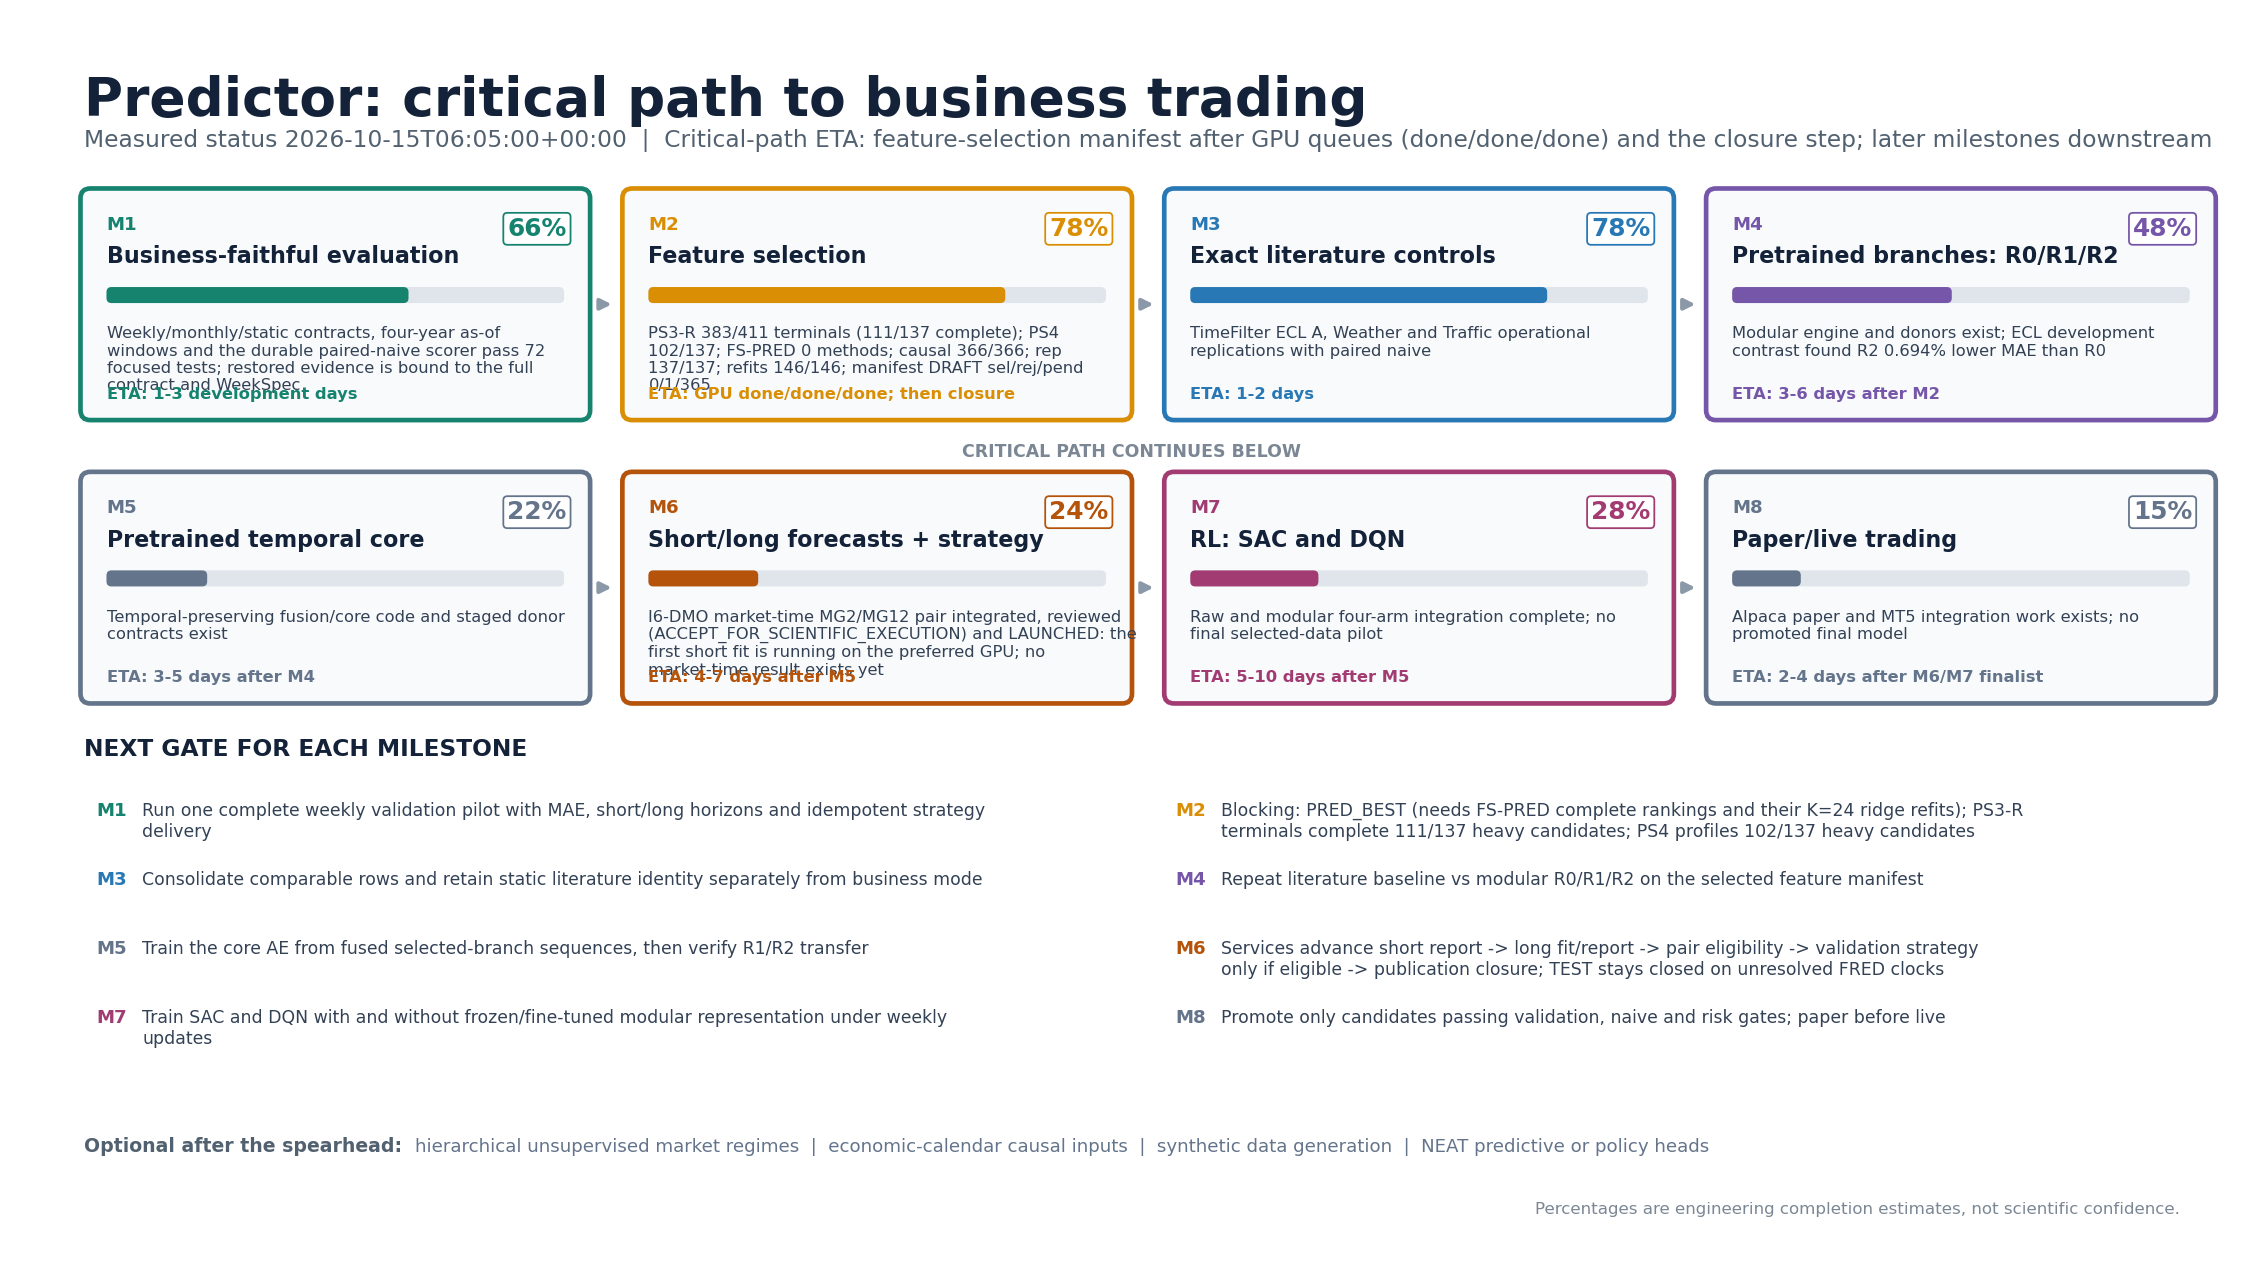
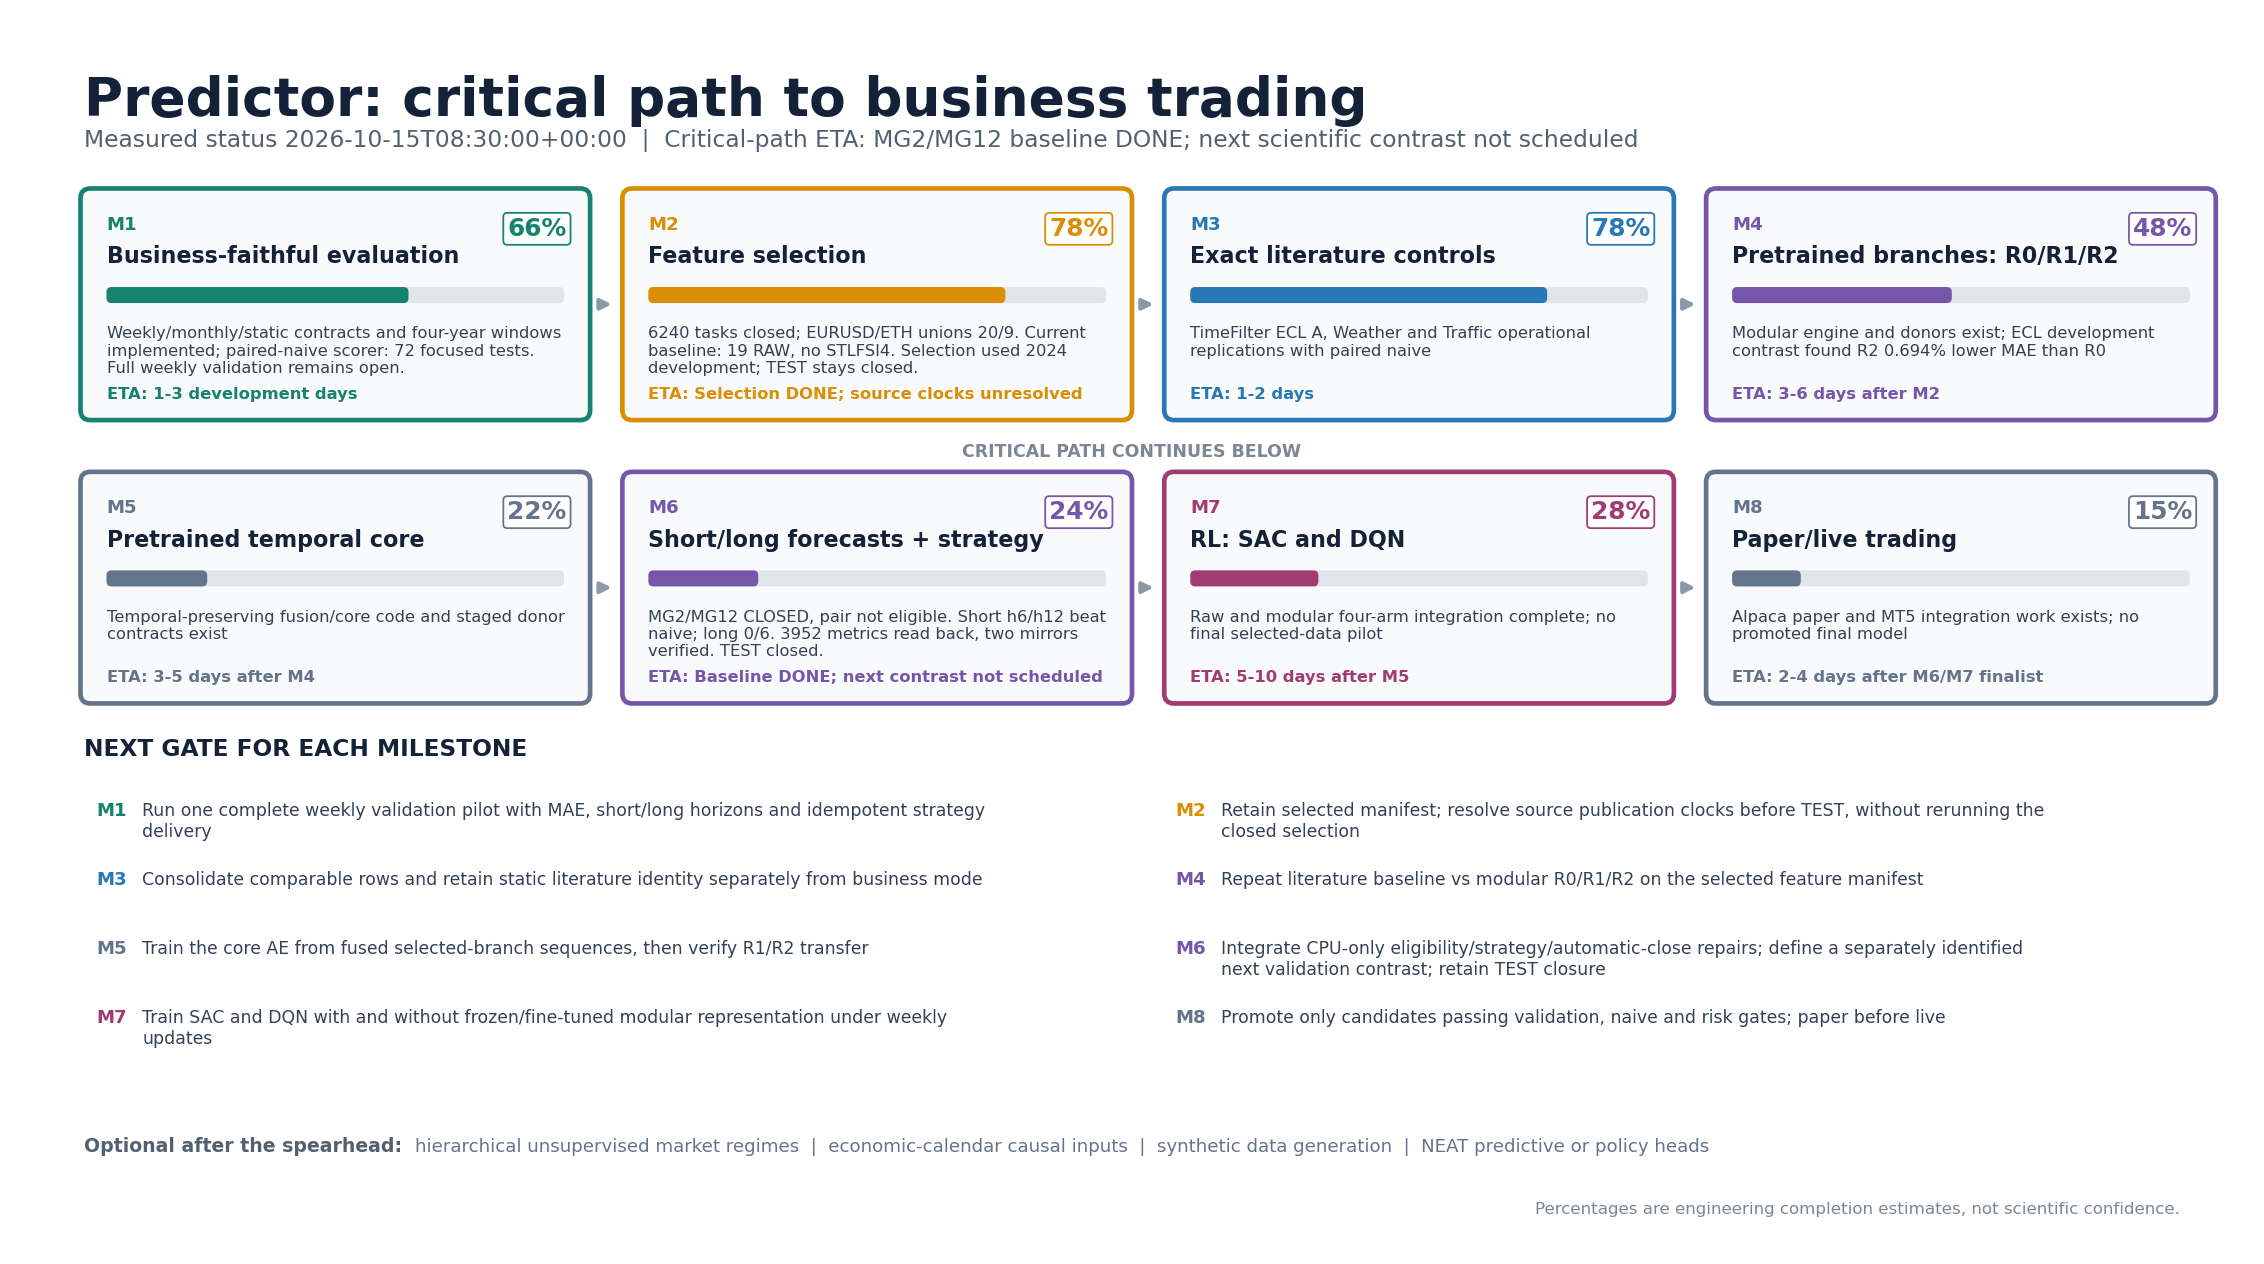
Record closed MG2 MG12 results and bounded automation repairs

diff --git a/docs/i6n/direct_multi_output_static/RETURN_REPORT_RECOVERY_20261015.md b/docs/i6n/direct_multi_output_static/RETURN_REPORT_RECOVERY_20261015.md
@@ -1,0 +1,105 @@
+# MG2/MG12 measured and closed
+
+Closure: 2026-10-15 08:30 UTC. Runtime `a169fcba`, branch
+`codex/i6dmo-report-recovery-20261015`, campaign `i6dmo-9e1ebad89ff2`.
+`CLOSE.json`: CLOSED / PAIR_NOT_ELIGIBLE. TEST was not opened.
+
+The source campaign `i6dmo-72809b6c88a6` fitted MG2 successfully (54.2345 s,
+13 epochs, best epoch 3, peak 2742071296 bytes), then short.report failed
+with UNKNOWN_DESIGN_FIELD. That report still called the elapsed design loader.
+The failure blocked MG12. The source fit, predictions, checkpoint and failed
+report are retained. Its idle timers were disabled after successor deployment.
+
+## Recovery and verification
+
+The default report path now authenticates the market bundle and rebuilds
+validation through the same market calendar table, with expected weeks and
+exact elapsed targets. New regression tests reproduce the production error
+for both families; corrected entry tests use real sealed designs and data-lane
+bundles, with no arrays-loader override and no training. Verification: 27
+report/deployment/identity/TEST-closure checks and 6 completed-fit recovery
+checks pass. They include changed-design/data rejection, corrupted source
+rejection and a fit counter showing only the original short and successor long.
+
+The successor imports the authenticated short fit under its original identity
[1 lines of base64/hex data omitted]
+and code pin `24f5a6cc`. It is marked ADOPT_ONLY. New reports and the long fit
+carry `a169fcba`; no short retraining occurred. All scientific design, data,
+seed, model and training files match. The explicit reuse receipt records
+allowed reporting/orchestration edits and the original terminal digest.
+
+## MG2 short: development 2024
+
+Original price USD/EUR; each naive uses precisely the model's rows and horizon.
+Relative error is `(MAE_h-naive_h)/naive_h`, negative better.
+
+| Horizon h | n | Model MAE | Naive for h | Relative error |
+|---|---:|---:|---:|---:|
+| 2 | 4770 | 0.000746830980 | 0.000746639413 | +0.025657% |
+| 3 | 4714 | 0.000928480155 | 0.000927952906 | +0.056818% |
+| 4 | 4663 | 0.001079576743 | 0.001079245121 | +0.030727% |
+| 5 | 4607 | 0.001225189846 | 0.001224562622 | +0.051220% |
+| 6 | 4556 | 0.001361444465 | 0.001362120281 | -0.049615% |
+| 12 | 4237 | 0.001992701489 | 0.001994559830 | -0.093170% |
+
+C2/manual/disk replay: AGREE for all heads, zero failed prediction rows.
+The 6 h and 12 h heads strictly beat their naive; the others do not. These
+are small development improvements from one minimal static R0 model. The
+19-feature set used 2024; no independent holdout or trading claim follows.
+54 reports (annual plus expected weekly segments), 2006 metric rows delivered
+with exact readback; zero pending/mismatch; both mirrors VERIFIED.
+
+## MG12 long: development 2024
+
+| Horizon h | n | Model MAE | Naive for h | Relative error |
+|---|---:|---:|---:|---:|
+| 18 | 3786 | 0.003120902937 | 0.002515266772 | +24.078407% |
+| 24 | 3493 | 0.003776758189 | 0.002949375895 | +28.052792% |
+| 36 | 2910 | 0.005112759691 | 0.003665948454 | +39.466219% |
+| 48 | 2331 | 0.005983700784 | 0.004392569713 | +36.223240% |
+| 60 | 1750 | 0.006688512471 | 0.004740862857 | +41.082176% |
+| 72 | 1166 | 0.007236858118 | 0.005137349914 | +40.867534% |
+
+MG12 completed on the preferred 5090, initial attempt, cap 4 GiB and the
+original 3 GiB host reserve. The initial estimate is based on the same 13x19
+inputs, six heads and model capacity as the measured short with fewer rows;
+it was not a claimed measured long peak. No previous long fit or admission
+refusal existed. Actual result: 124.5457 s fit, 37 epochs, best epoch 27,
+patience 10, restored best weights; measured cgroup peak 2662621184 bytes.
+Long report took 10.9050 s. C2/manual/disk replay AGREE for all six heads.
+
+## Pair disposition, publication and remaining engineering
+
+Two short heads and zero long heads beat their own naive. The frozen policy
+requires at least one eligible short and two eligible long heads. The pinned
+pair hook executed and returned PAIR_NOT_ELIGIBLE; strategy.validation is
+abstained with that disposition. No trades, TEST rows or additional fits.
+
+An additional real integration defect was found: worker preconditions required
+strategy OHLC pins before the pure pair eligibility step. Those pins are
+absent. The negative decision does not read OHLC bars. A bounded operational
+recovery verified the upstream report digests and sealed thresholds, proved
+zero eligible long heads, and executed the ORIGINAL pinned pair entrypoint
+through normal resource admission, queue claim, governed subprocess and stored
+terminal verification. It did not fabricate missing inputs, change the unit
+identity or mark a result complete without execution. The source and proof
+are retained in private operational evidence and NEGATIVE_PAIR_PREFLIGHT.json.
+The ordinary worker gate still needs the CPU-only correction in the handoff.
+
+Final publication: 110 reports / 3952 metric rows, exact readback, zero pending
+or mismatch. This includes the executed pair disposition. Both physical
+mirrors verify 58 files, including CLOSE.json and closure-input proof snapshots.
+The close receipt's publication/mirror hashes match those retained snapshots.
+
+The same immutable runtime commit was staged on all executing roles. No second
+heavy slot was enabled on the preferred host. Mutable state/SQLite/locks/private
+configuration remain on ext4, large immutable archives on the configured NTFS
+volume. Timers used 30 s worker/tick and 60 s publication operational drop-ins;
+after closure all five campaign timers were disabled. ETA for this measurement
+is DONE. No agent or scientific child remains running for this campaign.
+
+M1-M8 remain 66/78/78/48/22/24/28/15. Source/calendar/broker assumptions
+remain unresolved for confirmation. These measurements finish this minimal
+static R0 baseline, not the architecture's broader validation program.
+This result does not isolate the effect of market sampling versus DS2 because
+the population and physical-time encoding also changed.

diff --git a/docs/handoffs/MUSASHI_TO_SATOSHI_REPORT_RECOVERY_DEPLOYED_20261015.md b/docs/handoffs/MUSASHI_TO_SATOSHI_REPORT_RECOVERY_DEPLOYED_20261015.md
@@ -1,0 +1,51 @@
+# Satoshi: recovered baseline is CLOSED; repair the remaining automation
+
+Read `docs/i6n/direct_multi_output_static/RETURN_REPORT_RECOVERY_20261015.md`.
+Musashi deployed runtime `a169fcba` from
+`codex/i6dmo-report-recovery-20261015`; active campaign
+`i6dmo-9e1ebad89ff2`. Both fits and reports COMPLETE, pair hook executed
+PAIR_NOT_ELIGIBLE, closure CLOSED. All campaign timers are disabled.
+
+Do not start another MG2/MG12 fit or reopen the closed campaign.
+Integrate the repair/evidence branches into your coordination branch after
+checking its current state; integration is not an instruction to redeploy.
+The source campaign `i6dmo-72809b6c88a6` is retained FAILED with short.fit
+COMPLETE and short.report UNKNOWN_DESIGN_FIELD; its idle timers are disabled.
+
+The repaired actual report path is covered on MG2 and MG12, without a fake
+arrays_loader. Completed-fit reuse retains the source fit's actual code pin,
+identity and digests; new units record the successor pin. Do not bypass the
+reuse verifier or relabel a completed fit with a new training code pin.
+
+The reports contain two eligible short heads (6/12 h) and zero long heads.
+110 reports / 3952 metrics are readback verified; 58 files verify per mirror.
+No live scientific work needs agent monitoring.
+
+Next bounded engineering task, CPU only, without fits or TEST:
+
+1. Make pair.eligibility depend on authenticated report metrics and the sealed
+   minimum-head policy only. It must compute a negative decision even when
+   strategy OHLC pins are absent. The real worker currently stops too early
+   at STRATEGY_INPUT_PIN_MISSING:strategy_bars. Preserve real source pin checks
+   for the actual trading stage. Add a real-worker regression, not just a fake
+   trainer or an injected arrays_loader.
+2. Align strategy.validation with the real adapter. The graph creates kind
+   strategy, but the real run_unit currently accepts only pair. It also needs
+   authenticated short/long forecast upstreams even though its direct graph
+   dependency is pair.eligibility. Exercise both qualified and disqualified
+   paths through actual hooks, without a scientific fit.
+3. Make terminal scientific disposition + fully delivered outbox + verified
+   mirrors advance to explicit CLOSE automatically. Preserve the closure's
+   input proof files before mutable publication/mirror receipts are rewritten.
+   The present recovery used the existing close CLI once after verification.
+4. Keep source-code identity, imported-fit reuse and negative decisions visible
+   in status. A live service failure must not appear indefinitely as waiting.
+
+Use separate implementation and review ownership. Return code pins, executable
+CPU regressions and one end-to-end finite automation receipt. No deployment
+over the closed scientific identity, no agent polling, no new owner approval.
+
+The published source return's phrase "339 of 1587 observations covered" is
+inverted relative to its underlying ALFRED audit: 339 were outside the declared
+date coverage. Correct that narrative in an addendum without changing evidence
+or claiming look-ahead proved solely by ALFRED database ingestion dates.

diff --git a/docs/tres_temas_entrevista/MASTER_WORK_PLAN_INFORMATION_TO_KNOWLEDGE_PIPELINE_v3.md b/docs/tres_temas_entrevista/MASTER_WORK_PLAN_INFORMATION_TO_KNOWLEDGE_PIPELINE_v3.md
@@ -10,13 +10,22 @@ gobiernan la ejecución.
 Enmienda del propietario 2026-10-14, concretada por Musashi 2026-10-15: el despacho es
 [I6-DMO, direct multi-output estatico](../i6n/direct_multi_output_static/PLAN.md).
 El corto exacto DS2 cerro: seis cabezas no elegibles en desarrollo 2024. Su
-identidad y resultado se conservan. El siguiente experimento aprobado es
+identidad y resultado se conservan. El experimento aprobado posterior fue
 [la pareja en tiempo de mercado MG2/MG12](../i6n/direct_multi_output_static/MARKET_TIME_PAIR_PLAN.md):
 corto 2/3/4/5/6/12 h y luego largo 18/24/36/48/60/72 h. Cada entrada tiene
 13 observaciones reales, incluye t y separa 2/12 horas de mercado abierto;
 los offsets UTC reales y cruces de cierre entran al modelo. Los targets
 siguen siendo t+h en horas transcurridas, no en horas de mercado. Despues
 se evalua la pareja completa solo si pasa las compuertas predictivas.
+Estado medido al 2026-10-15 08:30 UTC: MG2/MG12 termino con
+`CLOSED / PAIR_NOT_ELIGIBLE`. MG2 supera su naive en 6 y 12 h por
+0.049615% y 0.093170%; ninguna cabeza MG12 lo supera. No se ejecuto
+trading ni se abrio TEST. Los 110 reportes y 3952 filas de metricas tienen
+lectura de vuelta y dos espejos fisicos verificados. El
+[retorno de cierre](../i6n/direct_multi_output_static/RETURN_REPORT_RECOVERY_20261015.md)
+conserva errores por horizonte, costes y limites. No repetir estos fits.
+Las reparaciones pendientes son de automatizacion CPU; cualquier contraste
+cientifico posterior necesita su propia identidad y diseno, no reabrir esta.
 Reajustes durante el ano desactivados en esta
 primera identidad. Esta enmienda prevalece sobre instrucciones antiguas de
 reajuste semanal obligatorio, barridos por horizonte y relevo H4->H72.

diff --git a/docs/tres_temas_entrevista/program_v3/CURRENT_EXECUTION.md b/docs/tres_temas_entrevista/program_v3/CURRENT_EXECUTION.md
@@ -1,9 +1,26 @@
 # Estado de ejecución vigente
 
-Ultimo retorno auditado: `98ffdf28`, estudio 2026-10-15. Este archivo no es
-un sondeo en vivo de los hosts. Estado posterior depende de STATUS generado.
+Cierre 2026-10-15 08:30 UTC. Campana `i6dmo-9e1ebad89ff2`, runtime
+`a169fcba`, CLOSED / PAIR_NOT_ELIGIBLE. Timers deshabilitados tras verificar
+la entrega completa y los espejos. No hay un fit vivo de esta campana.
 
-## Estado vigente: corto exacto cerrado; sucesor de mercado aprobado
+## Estado vigente: MG2 y MG12 medidos; pareja no elegible
+
+El fit corto MG2 termino en 54.2 s; su reporte fallo en la ruta heredada
+del loader. Musashi corrigio el reporte e importo el fit autenticado con
+su identidad y pin originales, sin reentrenarlo. Las cabezas 6/12 h mejoran
+0.049615%/0.093170% sobre su propio naive; las otras cuatro no. C2/manual/
+lectura de precios concuerdan. 54 reportes / 2006 metricas publicados con
+lectura de vuelta y dos espejos verificados. Desarrollo 2024, TEST cerrado.
+
+MG12 termino en 124.55 s en la 5090, 37 epocas, mejor 27. Sus seis cabezas
+superan el error de su propio naive entre 24.08% y 41.08%. Se ejecuto el hook
+de elegibilidad: cero largos aptos, PAIR_NOT_ELIGIBLE, sin trading ni TEST.
+110 reportes / 3952 metricas con lectura de vuelta; 58 archivos por espejo.
+[Retorno](../../i6n/direct_multi_output_static/RETURN_REPORT_RECOVERY_20261015.md)
+y [indice](../../i6n/direct_multi_output_static/RESULTS_INDEX.md).
+
+## Antecedentes: registros anteriores al despliegue recuperado
 
 El corto exacto DS2 cerro: seis cabezas NOT_ELIGIBLE en desarrollo 2024.
 Publicacion: 55 reportes, 2011 filas de metricas, lectura de vuelta y 28

diff --git a/docs/i6n/direct_multi_output_static/RESULTS_INDEX.md b/docs/i6n/direct_multi_output_static/RESULTS_INDEX.md
@@ -1,0 +1,13 @@
+# I6-DMO results
+
+| Stage | Result | Evidence |
+|---|---|---|
+| Exact elapsed DS2 short | Six heads above their own naive; 28 epochs, best 18, 94.3 s fit | [Release](RETURN_RELEASE.md) |
+| Market-time support | MG2 validation 4772 origins; MG12 3804, versus zero for elapsed DS12 | [Support study](RETURN_SUPPORT_STUDY_20261015.md) |
+| MG2 short fit and recovered report | 6/12 h improve MAE 0.049615%/0.093170%; 2/3/4/5 h remain above naive; 54 reports and 2006 metrics readback verified | [Recovery return](RETURN_REPORT_RECOVERY_20261015.md) |
+| MG12 long | Six heads above naive by 24.08-41.08%; 37 epochs, best 27, 124.55 s | [Recovery return](RETURN_REPORT_RECOVERY_20261015.md#mg12-long-development-2024) |
+| Pair and strategy | CLOSED / PAIR_NOT_ELIGIBLE; no trading or TEST; 110 reports / 3952 metrics delivered, 58 files per mirror | [Closure](RETURN_REPORT_RECOVERY_20261015.md#pair-disposition-publication-and-remaining-engineering) |
+
+All reported 2024 results are development. TEST remains closed. Each stage
+keeps its own support, model identity and cost; these are not controlled
+ablations of sampling alone. Generated STATUS supersedes snapshot run states.
